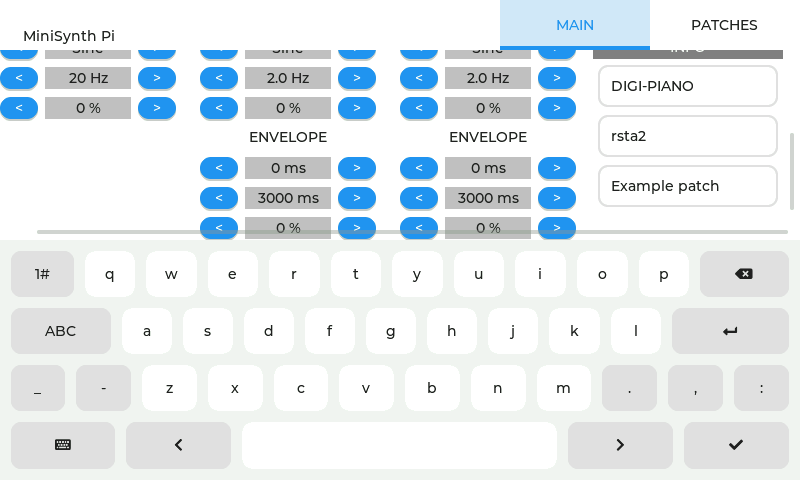
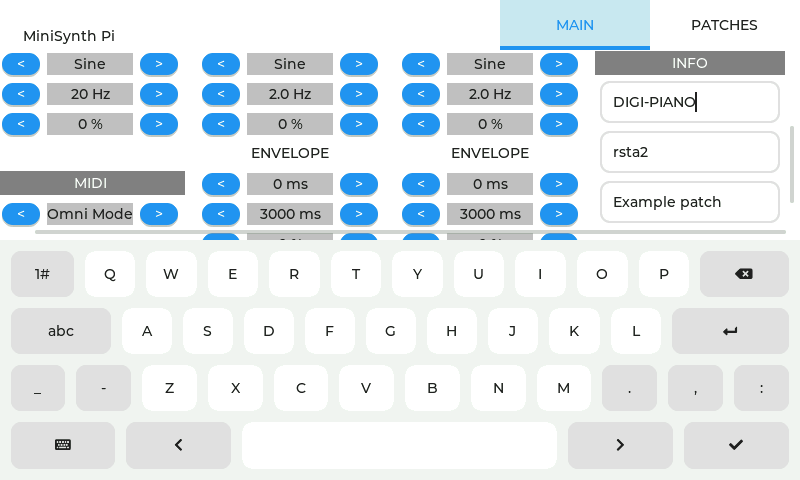
Input MIDI channel configurable in GUI

diff --git a/src/mainwindow.cpp b/src/mainwindow.cpp
@@ -59,6 +59,7 @@ CMainWindow::CMainWindow (CMiniSynthesizer *pSynthesizer, CSynthConfig *pConfig)
 	m_SynthVolume (m_pTabMain, SynthVolume, pConfig),
 	m_ReverbDecay (m_pTabMain, ReverbDecay, pConfig),
 	m_ReverbVolume (m_pTabMain, ReverbVolume, pConfig),
+	m_MIDIChannel (m_pTabMain, MIDIChannel, pConfig),
 	m_PropertyName (m_pTabMain, PatchPropertyName, pConfig),
 	m_PropertyAuthor (m_pTabMain, PatchPropertyAuthor, pConfig),
 	m_PropertyComment (m_pTabMain, PatchPropertyComment, pConfig),
@@ -101,6 +102,9 @@ CMainWindow::CMainWindow (CMiniSynthesizer *pSynthesizer, CSynthConfig *pConfig)
 	m_LFOVCOWaveform.Create (10, 150);
 	m_LFOVCOFrequency.Create (10, 180);
 	m_VCOModulationVolume.Create (10, 210);
+	// MIDI
+	LabelCreate (m_pTabMain, 5, 270, "MIDI", LabelStyleSection);
+	m_MIDIChannel.Create (10, 300);
 	// filter
 	LabelCreate (m_pTabMain, 205, 5, "FILTER", LabelStyleSection);
 	LabelCreate (m_pTabMain, 205, 30, "VCF");
@@ -210,6 +214,8 @@ void CMainWindow::EventHandler (lv_obj_t *pObject, lv_event_code_t Event)
 		    || m_VCOWaveform.EventHandler (pObject, Event, m_bShowHelp)
 		    || m_VCOModulationVolume.EventHandler (pObject, Event, m_bShowHelp)
 		    || m_VCODetune.EventHandler (pObject, Event, m_bShowHelp)
+		       // MIDI
+		    || m_MIDIChannel.EventHandler (pObject, Event, m_bShowHelp)
 		       // filter
 		    || m_VCFCutoffFrequency.EventHandler (pObject, Event, m_bShowHelp)
 		    || m_VCFResonance.EventHandler (pObject, Event, m_bShowHelp)
@@ -310,6 +316,9 @@ void CMainWindow::UpdateAllParameters (boolean bUpdatePatch)
 	m_VCOWaveform.Update (m_bShowHelp);
 	m_VCOModulationVolume.Update (m_bShowHelp);
 	m_VCODetune.Update (m_bShowHelp);
+
+	// MIDI
+	m_MIDIChannel.Update (m_bShowHelp);
 
 	// filter
 	m_VCFCutoffFrequency.Update (m_bShowHelp);

diff --git a/src/mididevice.cpp b/src/mididevice.cpp
@@ -2,7 +2,7 @@
 // mididevice.cpp
 //
 // MiniSynth Pi - A virtual analogue synthesizer for Raspberry Pi
-// Copyright (C) 2017-2021  R. Stange <rsta2@o2online.de>
+// Copyright (C) 2017-2022  R. Stange <rsta2@o2online.de>
 //
 // This program is free software: you can redistribute it and/or modify
 // it under the terms of the GNU General Public License as published by
@@ -27,14 +27,16 @@
 #define MIDI_CONTROL_CHANGE	0b1011
 #define MIDI_PROGRAM_CHANGE	0b1100
 
-CMIDIDevice::CMIDIDevice (CMiniSynthesizer *pSynthesizer)
-:	m_pSynthesizer (pSynthesizer)
+CMIDIDevice::CMIDIDevice (CMiniSynthesizer *pSynthesizer, CSynthConfig *pConfig)
+:	m_pSynthesizer (pSynthesizer),
+	m_pConfig (pConfig)
 {
 }
 
 CMIDIDevice::~CMIDIDevice (void)
 {
 	m_pSynthesizer = 0;
+	m_pConfig = 0;
 }
 
 void CMIDIDevice::MIDIMessageHandler (const u8 *pMessage, size_t nLength)
@@ -55,7 +57,12 @@ void CMIDIDevice::MIDIMessageHandler (const u8 *pMessage, size_t nLength)
 	u8 ucKeyNumber = pMessage[1];
 	u8 ucVelocity  = pMessage[2];
 
-	if (!((1 << ucChannel) & MIDI_CHANNEL_FILTER))
+	assert (m_pConfig != 0);
+	CPatch *pPatch = m_pConfig->GetActivePatch ();
+	assert (pPatch != 0);
+	unsigned nMIDIChannel = pPatch->GetParameter (MIDIChannel);
+	if (   nMIDIChannel != 0		// Omni mode
+	    && nMIDIChannel != (ucChannel + 1U))
 	{
 		return;
 	}

diff --git a/src/parameter.cpp b/src/parameter.cpp
@@ -2,7 +2,7 @@
 // parameter.cpp
 //
 // MiniSynth Pi - A virtual analogue synthesizer for Raspberry Pi
-// Copyright (C) 2017-2021  R. Stange <rsta2@o2online.de>
+// Copyright (C) 2017-2022  R. Stange <rsta2@o2online.de>
 //
 // This program is free software: you can redistribute it and/or modify
 // it under the terms of the GNU General Public License as published by
@@ -135,6 +135,14 @@ const char *CParameter::GetString (void)
 		m_String.Format ("%u %", m_nValue);
 		return m_String;
 
+	case ParameterChannel:
+		if (m_nValue == 0)
+		{
+			return "Omni Mode";
+		}
+		m_String.Format ("%u", m_nValue);
+		return m_String;
+
 	default:
 		assert (0);
 		return "";
@@ -143,12 +151,14 @@ const char *CParameter::GetString (void)
 
 boolean CParameter::IsEditable (void) const
 {
-	return m_Type != ParameterWaveform;
+	return    m_Type != ParameterWaveform
+	       && m_Type != ParameterChannel;
 }
 
 const char *CParameter::GetEditString (void)
 {
-	assert (m_Type != ParameterWaveform);
+	assert (   m_Type != ParameterWaveform
+		&& m_Type != ParameterChannel);
 	if (m_Type != ParameterFrequencyTenth)
 	{
 		m_String.Format ("%u", m_nValue);

diff --git a/src/mididevice.h b/src/mididevice.h
@@ -2,7 +2,7 @@
 // mididevice.h
 //
 // MiniSynth Pi - A virtual analogue synthesizer for Raspberry Pi
-// Copyright (C) 2017-2020  R. Stange <rsta2@o2online.de>
+// Copyright (C) 2017-2022  R. Stange <rsta2@o2online.de>
 //
 // This program is free software: you can redistribute it and/or modify
 // it under the terms of the GNU General Public License as published by
@@ -21,13 +21,14 @@
 #define _mididevice_h
 
 #include <circle/types.h>
+#include "synthconfig.h"
 
 class CMiniSynthesizer;
 
 class CMIDIDevice
 {
 public:
-	CMIDIDevice (CMiniSynthesizer *pSynthesizer);
+	CMIDIDevice (CMiniSynthesizer *pSynthesizer, CSynthConfig *pConfig);
 	~CMIDIDevice (void);
 
 protected:
@@ -35,6 +36,7 @@ protected:
 
 private:
 	CMiniSynthesizer *m_pSynthesizer;
+	CSynthConfig *m_pConfig;
 };
 
 #endif

diff --git a/src/serialmididevice.h b/src/serialmididevice.h
@@ -2,7 +2,7 @@
 // serialmididevice.h
 //
 // MiniSynth Pi - A virtual analogue synthesizer for Raspberry Pi
-// Copyright (C) 2017-2020  R. Stange <rsta2@o2online.de>
+// Copyright (C) 2017-2022  R. Stange <rsta2@o2online.de>
 //
 // This program is free software: you can redistribute it and/or modify
 // it under the terms of the GNU General Public License as published by
@@ -30,7 +30,8 @@ class CMiniSynthesizer;
 class CSerialMIDIDevice : public CMIDIDevice
 {
 public:
-	CSerialMIDIDevice (CMiniSynthesizer *pSynthesizer, CInterruptSystem *pInterrupt);
+	CSerialMIDIDevice (CMiniSynthesizer *pSynthesizer, CInterruptSystem *pInterrupt,
+			   CSynthConfig *pConfig);
 	~CSerialMIDIDevice (void);
 
 	boolean Initialize (void);

diff --git a/src/patch.cpp b/src/patch.cpp
@@ -2,7 +2,7 @@
 // patch.cpp
 //
 // MiniSynth Pi - A virtual analogue synthesizer for Raspberry Pi
-// Copyright (C) 2017-2021  R. Stange <rsta2@o2online.de>
+// Copyright (C) 2017-2022  R. Stange <rsta2@o2online.de>
 //
 // This program is free software: you can redistribute it and/or modify
 // it under the terms of the GNU General Public License as published by
@@ -71,7 +71,8 @@ ParameterList[] =		// must match TSynthParameter
 	{"ReverbVolume", ParameterPercent, 0, 30, 5, 0, "Volume"},
 
 	// Synth
-	{"SynthVolume", ParameterPercent, 0, 100, 10, 50, "Volume"}
+	{"SynthVolume", ParameterPercent, 0, 100, 10, 50, "Volume"},
+	{"MIDIChannel", ParameterChannel, 0, 16, 1, 0, "Channel"}
 };
 
 static const struct

diff --git a/src/patch.h b/src/patch.h
@@ -4,7 +4,7 @@
 // Container for patch settings, loadable from properties file
 //
 // MiniSynth Pi - A virtual analogue synthesizer for Raspberry Pi
-// Copyright (C) 2017-2021  R. Stange <rsta2@o2online.de>
+// Copyright (C) 2017-2022  R. Stange <rsta2@o2online.de>
 //
 // This program is free software: you can redistribute it and/or modify
 // it under the terms of the GNU General Public License as published by
@@ -69,6 +69,7 @@ enum TSynthParameter			// the parameters of a patch
 
 	// Synth
 	SynthVolume,
+	MIDIChannel,
 
 	SynthParameterUnknown
 };

diff --git a/src/parameter.h b/src/parameter.h
@@ -4,7 +4,7 @@
 // One parameter of a patch
 //
 // MiniSynth Pi - A virtual analogue synthesizer for Raspberry Pi
-// Copyright (C) 2017-2021  R. Stange <rsta2@o2online.de>
+// Copyright (C) 2017-2022  R. Stange <rsta2@o2online.de>
 //
 // This program is free software: you can redistribute it and/or modify
 // it under the terms of the GNU General Public License as published by
@@ -32,6 +32,7 @@ enum TParameterType
 	ParameterFrequencyTenth,
 	ParameterTime,
 	ParameterPercent,
+	ParameterChannel,
 	ParameterTypeUnknown
 };
 

diff --git a/src/minisynth.cpp b/src/minisynth.cpp
@@ -30,10 +30,10 @@ static const char FromMiniSynth[] = "synth";
 
 CMiniSynthesizer::CMiniSynthesizer (CSynthConfig *pConfig, CInterruptSystem *pInterrupt)
 :	m_pConfig (pConfig),
-	m_MIDIKeyboard0 (this, 0),
-	m_MIDIKeyboard1 (this, 1),
+	m_MIDIKeyboard0 (this, pConfig, 0),
+	m_MIDIKeyboard1 (this, pConfig, 1),
 	m_Keyboard (this),
-	m_SerialMIDI (this, pInterrupt),
+	m_SerialMIDI (this, pInterrupt, pConfig),
 	m_bUseSerial (FALSE),
 	m_nConfigRevisionWrite (0),
 	m_nConfigRevisionRead (0),

diff --git a/src/serialmididevice.cpp b/src/serialmididevice.cpp
@@ -21,8 +21,9 @@
 #include <circle/sysconfig.h>
 #include <assert.h>
 
-CSerialMIDIDevice::CSerialMIDIDevice (CMiniSynthesizer *pSynthesizer, CInterruptSystem *pInterrupt)
-:	CMIDIDevice (pSynthesizer),
+CSerialMIDIDevice::CSerialMIDIDevice (CMiniSynthesizer *pSynthesizer, CInterruptSystem *pInterrupt,
+				      CSynthConfig *pConfig)
+:	CMIDIDevice (pSynthesizer, pConfig),
 #if RASPPI <= 3 && defined (USE_USB_FIQ)
 	m_Serial (pInterrupt, FALSE),
 #else

diff --git a/src/midikeyboard.cpp b/src/midikeyboard.cpp
@@ -31,8 +31,9 @@ TMIDIPacketHandler * const CMIDIKeyboard::s_pMIDIPacketHandler[MaxInstances] =
 	MIDIPacketHandler3
 };
 
-CMIDIKeyboard::CMIDIKeyboard (CMiniSynthesizer *pSynthesizer, unsigned nInstance)
-:	CMIDIDevice (pSynthesizer),
+CMIDIKeyboard::CMIDIKeyboard (CMiniSynthesizer *pSynthesizer, CSynthConfig *pConfig,
+			      unsigned nInstance)
+:	CMIDIDevice (pSynthesizer, pConfig),
 	m_nInstance (nInstance),
 	m_pMIDIDevice (0)
 {

diff --git a/src/midikeyboard.h b/src/midikeyboard.h
@@ -34,7 +34,8 @@ public:
 	static const unsigned MaxInstances = 4;
 
 public:
-	CMIDIKeyboard (CMiniSynthesizer *pSynthesizer, unsigned nInstance = 0);
+	CMIDIKeyboard (CMiniSynthesizer *pSynthesizer, CSynthConfig *pConfig,
+		       unsigned nInstance = 0);
 	~CMIDIKeyboard (void);
 
 	void Process (boolean bPlugAndPlayUpdated);
